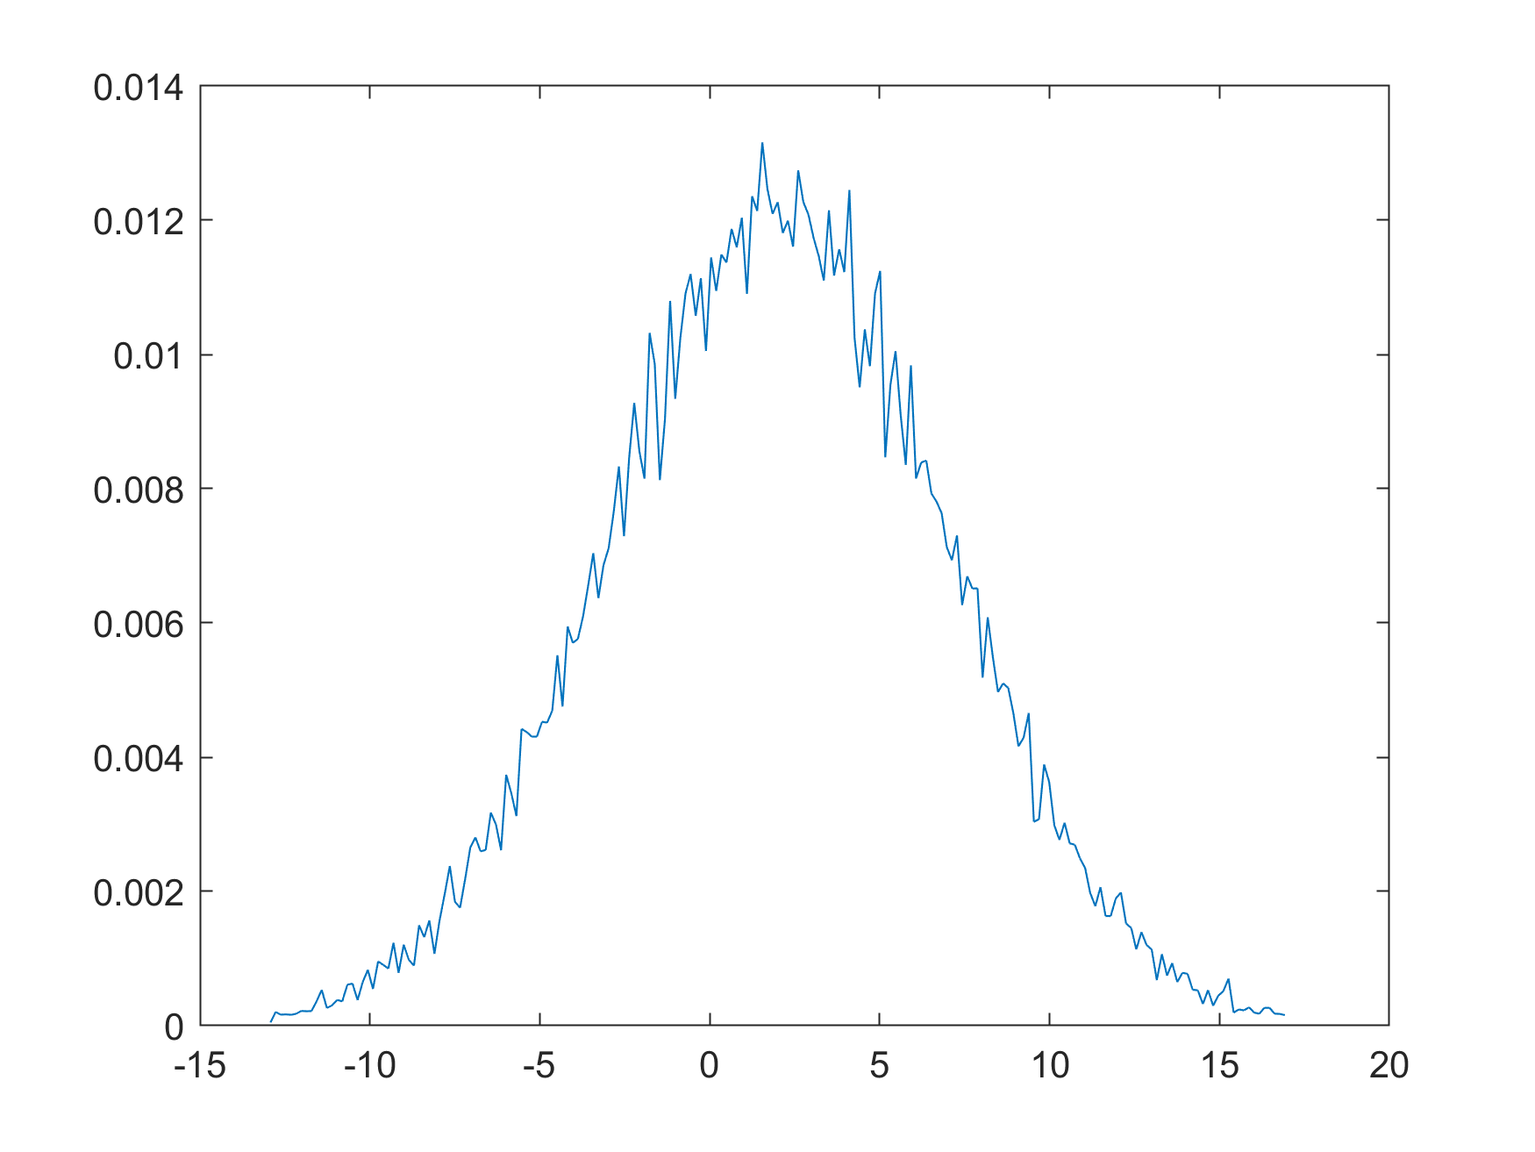
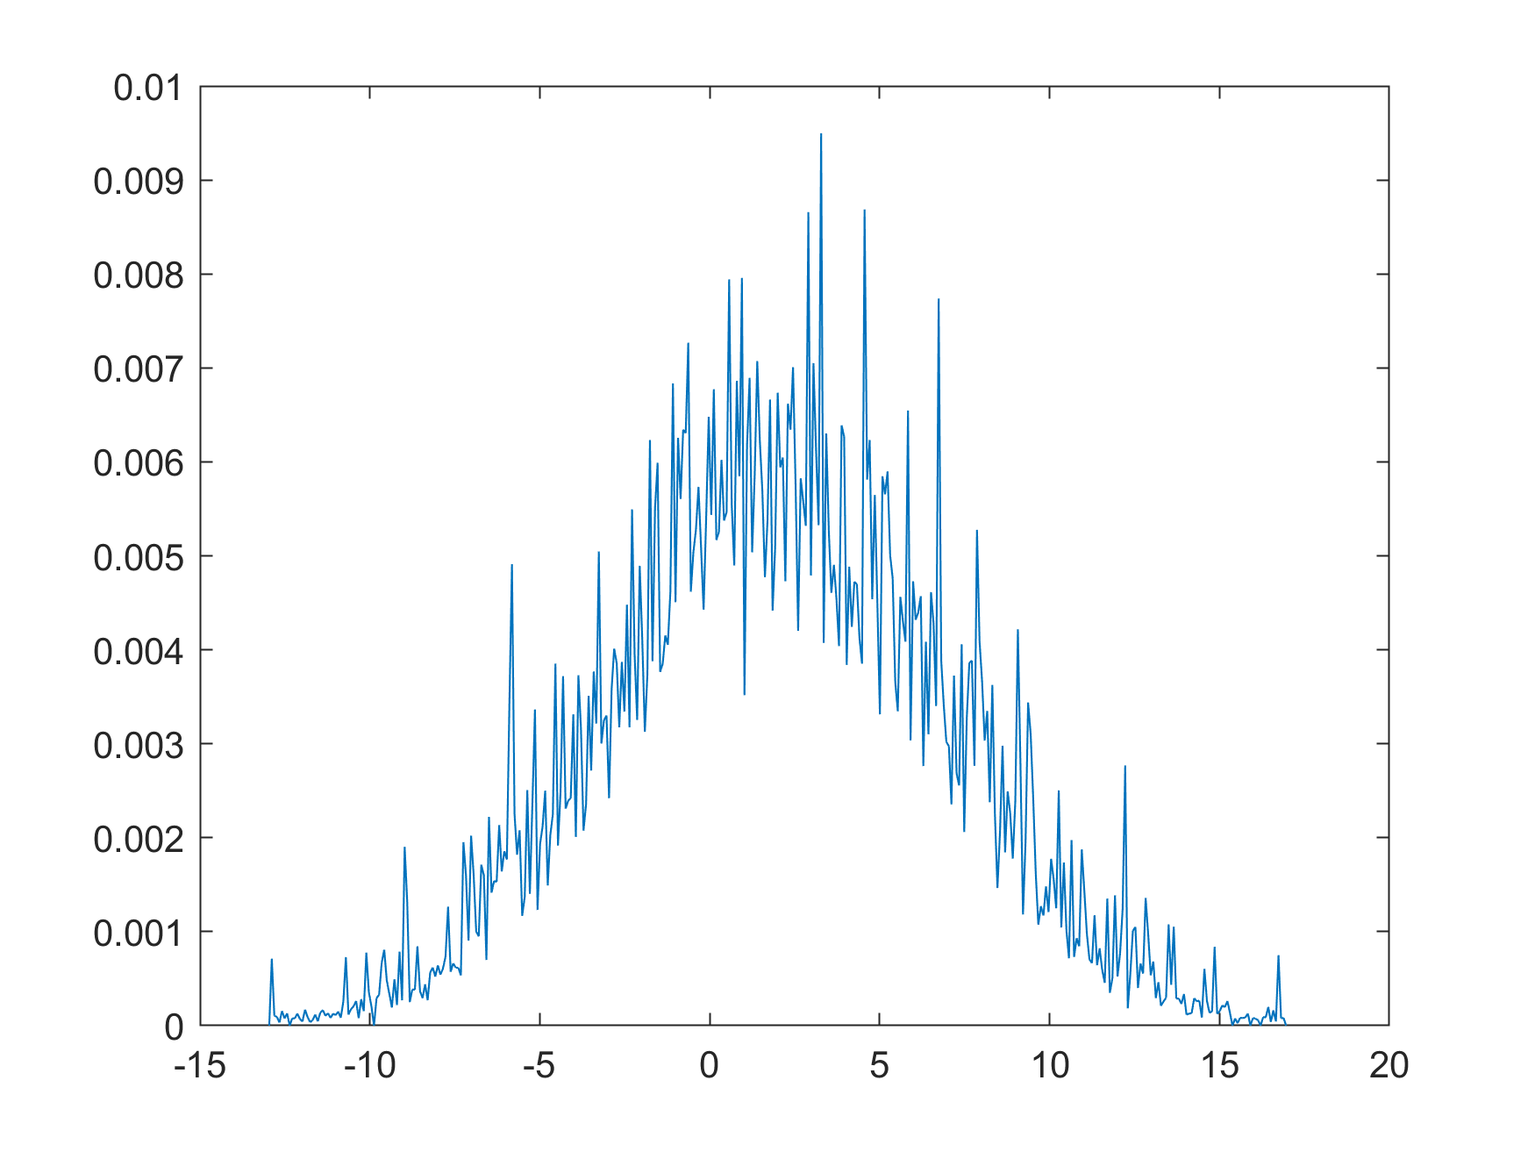
CONSEGNA

diff --git a/C/esercitazione9/pdfGauss.m b/C/esercitazione9/pdfGauss.m
@@ -1,7 +1,9 @@
 x = [-12.962406, -12.887218, -12.812030, -12.736842, -12.661654, -12.586466, -12.511278, -12.436090, -12.360902, -12.285714, -12.210526, -12.135338, -12.060150, -11.984962, -11.909774, -11.834586, -11.759398, -11.684211, -11.609023, -11.533835, -11.458647, -11.383459, -11.308271, -11.233083, -11.157895, -11.082707, -11.007519, -10.932331, -10.857143, -10.781955, -10.706767, -10.631579, -10.556391, -10.481203, -10.406015, -10.330827, -10.255639, -10.180451, -10.105263, -10.030075, -9.954887, -9.879699, -9.804511, -9.729323, -9.654135, -9.578947, -9.503759, -9.428571, -9.353383, -9.278195, -9.203008, -9.127820, -9.052632, -8.977444, -8.902256, -8.827068, -8.751880, -8.676692, -8.601504, -8.526316, -8.451128, -8.375940, -8.300752, -8.225564, -8.150376, -8.075188, -8.000000, -7.924812, -7.849624, -7.774436, -7.699248, -7.624060, -7.548872, -7.473684, -7.398496, -7.323308, -7.248120, -7.172932, -7.097744, -7.022556, -6.947368, -6.872180, -6.796992, -6.721805, -6.646617, -6.571429, -6.496241, -6.421053, -6.345865, -6.270677, -6.195489, -6.120301, -6.045113, -5.969925, -5.894737, -5.819549, -5.744361, -5.669173, -5.593985, -5.518797, -5.443609, -5.368421, -5.293233, -5.218045, -5.142857, -5.067669, -4.992481, -4.917293, -4.842105, -4.766917, -4.691729, -4.616541, -4.541353, -4.466165, -4.390977, -4.315789, -4.240602, -4.165414, -4.090226, -4.015038, -3.939850, -3.864662, -3.789474, -3.714286, -3.639098, -3.563910, -3.488722, -3.413534, -3.338346, -3.263158, -3.187970, -3.112782, -3.037594, -2.962406, -2.887218, -2.812030, -2.736842, -2.661654, -2.586466, -2.511278, -2.436090, -2.360902, -2.285714, -2.210526, -2.135338, -2.060150, -1.984962, -1.909774, -1.834586, -1.759398, -1.684211, -1.609023, -1.533835, -1.458647, -1.383459, -1.308271, -1.233083, -1.157895, -1.082707, -1.007519, -0.932331, -0.857143, -0.781955, -0.706767, -0.631579, -0.556391, -0.481203, -0.406015, -0.330827, -0.255639, -0.180451, -0.105263, -0.030075, 0.045113, 0.120301, 0.195489, 0.270677, 0.345865, 0.421053, 0.496241, 0.571429, 0.646617, 0.721805, 0.796992, 0.872180, 0.947368, 1.022556, 1.097744, 1.172932, 1.248120, 1.323308, 1.398496, 1.473684, 1.548872, 1.624060, 1.699248, 1.774436, 1.849624, 1.924812, 2.000000, 2.075188, 2.150376, 2.225564, 2.300752, 2.375940, 2.451128, 2.526316, 2.601504, 2.676692, 2.751880, 2.827068, 2.902256, 2.977444, 3.052632, 3.127820, 3.203008, 3.278195, 3.353383, 3.428571, 3.503759, 3.578947, 3.654135, 3.729323, 3.804511, 3.879699, 3.954887, 4.030075, 4.105263, 4.180451, 4.255639, 4.330827, 4.406015, 4.481203, 4.556391, 4.631579, 4.706767, 4.781955, 4.857143, 4.932331, 5.007519, 5.082707, 5.157895, 5.233083, 5.308271, 5.383459, 5.458647, 5.533835, 5.609023, 5.684211, 5.759398, 5.834586, 5.909774, 5.984962, 6.060150, 6.135338, 6.210526, 6.285714, 6.360902, 6.436090, 6.511278, 6.586466, 6.661654, 6.736842, 6.812030, 6.887218, 6.962406, 7.037594, 7.112782, 7.187970, 7.263158, 7.338346, 7.413534, 7.488722, 7.563910, 7.639098, 7.714286, 7.789474, 7.864662, 7.939850, 8.015038, 8.090226, 8.165414, 8.240602, 8.315789, 8.390977, 8.466165, 8.541353, 8.616541, 8.691729, 8.766917, 8.842105, 8.917293, 8.992481, 9.067669, 9.142857, 9.218045, 9.293233, 9.368421, 9.443609, 9.518797, 9.593985, 9.669173, 9.744361, 9.819549, 9.894737, 9.969925, 10.045113, 10.120301, 10.195489, 10.270677, 10.345865, 10.421053, 10.496241, 10.571429, 10.646617, 10.721805, 10.796992, 10.872180, 10.947368, 11.022556, 11.097744, 11.172932, 11.248120, 11.323308, 11.398496, 11.473684, 11.548872, 11.624060, 11.699248, 11.774436, 11.849624, 11.924812, 12.000000, 12.075188, 12.150376, 12.225564, 12.300752, 12.375940, 12.451128, 12.526316, 12.601504, 12.676692, 12.751880, 12.827068, 12.902256, 12.977444, 13.052632, 13.127820, 13.203008, 13.278195, 13.353383, 13.428571, 13.503759, 13.578947, 13.654135, 13.729323, 13.804511, 13.879699, 13.954887, 14.030075, 14.105263, 14.180451, 14.255639, 14.330827, 14.406015, 14.481203, 14.556391, 14.631579, 14.706767, 14.781955, 14.857143, 14.932331, 15.007519, 15.082707, 15.157895, 15.233083, 15.308271, 15.383459, 15.458647, 15.533835, 15.609023, 15.684211, 15.759398, 15.834586, 15.909774, 15.984962, 16.060150, 16.135338, 16.210526, 16.285714, 16.360902, 16.436090, 16.511278, 16.586466, 16.661654, 16.736842, 16.812030, 16.887218, 16.962406, ];
 
-f = [0.000138 0.000139 0.000140 0.000000 0.000134 0.000000 0.000000 0.000000 0.000000 0.000413 0.000139 0.000000 0.000120 0.000271 0.000138 0.000000 0.000133 0.000000 0.000063 0.000000 0.000000 0.000410 0.000119 0.000637 0.000395 0.000070 0.000273 0.000405 0.000126 0.000125 0.000270 0.000104 0.000358 0.000246 0.000000 0.000277 0.000138 0.000137 0.000491 0.000515 0.000721 0.000386 0.000383 0.000396 0.000135 0.000132 0.000390 0.000138 0.000545 0.000343 0.000485 0.000133 0.000677 0.000627 0.001045 0.000643 0.000460 0.000841 0.000899 0.000653 0.000400 0.000797 0.000470 0.000614 0.001012 0.000854 0.001006 0.000731 0.001275 0.001288 0.000854 0.000471 0.001127 0.000992 0.000873 0.001293 0.000971 0.000996 0.000661 0.001019 0.001011 0.001975 0.001074 0.000871 0.001213 0.001524 0.001280 0.002046 0.001233 0.001401 0.001502 0.001435 0.001669 0.001617 0.001473 0.002441 0.001731 0.001608 0.001630 0.001992 0.002002 0.002290 0.001956 0.002030 0.003270 0.001424 0.001974 0.001514 0.002453 0.002971 0.001741 0.002095 0.002864 0.001521 0.003188 0.003779 0.003526 0.001712 0.003248 0.003192 0.002482 0.004071 0.003173 0.003582 0.002880 0.002807 0.002544 0.003482 0.004079 0.003458 0.003886 0.003404 0.002974 0.003191 0.003961 0.004757 0.004030 0.003273 0.004038 0.003572 0.004598 0.003593 0.003850 0.005213 0.003878 0.004275 0.005101 0.005502 0.004290 0.003980 0.004072 0.003843 0.004755 0.005292 0.004860 0.005754 0.002914 0.005017 0.005400 0.005119 0.005583 0.005100 0.004719 0.006336 0.004221 0.003961 0.006583 0.004810 0.005128 0.004991 0.006933 0.004636 0.006262 0.007401 0.005487 0.005200 0.006399 0.006131 0.005397 0.007207 0.006204 0.005603 0.006140 0.005477 0.005758 0.005742 0.006283 0.004477 0.006247 0.005479 0.005853 0.005181 0.006180 0.006101 0.006183 0.006053 0.005324 0.005735 0.006207 0.005965 0.006869 0.006509 0.005964 0.006760 0.006728 0.005859 0.005197 0.007085 0.005867 0.006748 0.006461 0.006030 0.004352 0.006113 0.004434 0.006510 0.006744 0.004938 0.006699 0.005107 0.004858 0.005163 0.005619 0.006300 0.005276 0.004963 0.005334 0.005123 0.005716 0.005071 0.005957 0.006738 0.005094 0.006016 0.004333 0.005400 0.006615 0.003500 0.005332 0.004701 0.005392 0.005103 0.004191 0.004387 0.004431 0.004058 0.004287 0.004013 0.004922 0.004159 0.006683 0.003388 0.003456 0.004525 0.004337 0.005228 0.003741 0.005102 0.004581 0.002839 0.004750 0.003375 0.003813 0.004185 0.004200 0.004322 0.003744 0.003365 0.003190 0.003205 0.002685 0.002931 0.003367 0.003410 0.002918 0.002736 0.001425 0.004317 0.003057 0.002943 0.002705 0.002947 0.002497 0.003539 0.002712 0.002462 0.002954 0.002818 0.002391 0.002485 0.002519 0.001905 0.001967 0.002278 0.001840 0.001756 0.002007 0.002011 0.002439 0.002800 0.001587 0.001347 0.001695 0.001457 0.001765 0.001756 0.001646 0.001566 0.000945 0.001754 0.001459 0.001693 0.000750 0.001566 0.001036 0.001949 0.000666 0.002573 0.000833 0.001361 0.001219 0.001096 0.001216 0.000514 0.001283 0.001086 0.000886 0.001044 0.001422 0.000926 0.000578 0.000853 0.000775 0.000259 0.000523 0.001432 0.000373 0.000353 0.000481 0.000681 0.000393 0.000098 0.000242 0.000918 0.000703 0.000391 0.000633 0.000261 0.000333 0.000395 0.000761 0.000243 0.000977 0.000524 0.000529 0.000091 0.000000 0.000511 0.000670 0.000138 0.000392 0.000337 0.000253 0.000244 0.000634 0.000367 0.000131 0.000407 0.000275 0.000000 0.000269 0.000415 0.000260 0.000000 0.000117 0.000279 0.000268 0.000091 0.000275 0.000245 0.000000 0.000278 0.000104 0.000000 0.000096 0.000000 0.000121 0.000000 0.000000 0.000118 0.000137 0.000135 0.000000 0.000085 0.000000 0.000438 0.000000 0.000120 0.000248 ];
+f = [0.000000 0.000713 0.000105 0.000093 0.000033 0.000156 0.000077 0.000131 0.000000 0.000078 0.000077 0.000129 0.000071 0.000044 0.000170 0.000092 0.000037 0.000059 0.000118 0.000047 0.000138 0.000165 0.000104 0.000132 0.000083 0.000128 0.000112 0.000150 0.000084 0.000256 0.000729 0.000118 0.000174 0.000207 0.000262 0.000080 0.000282 0.000154 0.000777 0.000353 0.000206 0.000000 0.000293 0.000329 0.000665 0.000808 0.000481 0.000340 0.000193 0.000494 0.000219 0.000788 0.000270 0.001903 0.001321 0.000250 0.000385 0.000383 0.000845 0.000369 0.000293 0.000440 0.000270 0.000568 0.000618 0.000523 0.000642 0.000542 0.000608 0.000736 0.001266 0.000573 0.000663 0.000617 0.000616 0.000535 0.001953 0.001600 0.000905 0.002022 0.001609 0.001001 0.000950 0.001713 0.001600 0.000699 0.002222 0.001415 0.001540 0.001530 0.002135 0.001641 0.001856 0.001768 0.003432 0.004911 0.002253 0.001819 0.002080 0.001168 0.001371 0.002507 0.001403 0.002367 0.003365 0.001231 0.001932 0.002124 0.002501 0.001492 0.002025 0.002250 0.003853 0.001916 0.002482 0.003720 0.002310 0.002394 0.002420 0.003313 0.002009 0.003729 0.003166 0.002075 0.002357 0.003511 0.002715 0.003769 0.003215 0.005046 0.003002 0.003250 0.003300 0.002421 0.003582 0.004012 0.003857 0.003175 0.003871 0.003342 0.004479 0.003175 0.005495 0.003952 0.003253 0.004894 0.004105 0.003127 0.003736 0.006232 0.003878 0.005514 0.005990 0.003764 0.003851 0.004153 0.004052 0.004620 0.006835 0.004506 0.006256 0.005605 0.006343 0.006306 0.007268 0.004618 0.005036 0.005278 0.005734 0.005091 0.004427 0.005400 0.006480 0.005435 0.006773 0.005168 0.005253 0.006021 0.005375 0.005464 0.007942 0.005549 0.004897 0.006862 0.005847 0.007957 0.003517 0.006175 0.006894 0.005037 0.005865 0.007073 0.006228 0.005686 0.004773 0.005367 0.006663 0.004417 0.005085 0.006735 0.005941 0.006046 0.004729 0.006619 0.006342 0.007007 0.005758 0.004202 0.005825 0.005575 0.005319 0.008658 0.004791 0.007050 0.006134 0.005326 0.009497 0.004073 0.006302 0.005269 0.004606 0.004904 0.004542 0.004040 0.006389 0.006268 0.003839 0.004884 0.004244 0.004724 0.004697 0.004126 0.003852 0.008686 0.005811 0.006232 0.004538 0.005648 0.004501 0.003313 0.005847 0.005654 0.005898 0.005007 0.004760 0.003661 0.003345 0.004563 0.004305 0.004086 0.006546 0.003036 0.004729 0.004319 0.004396 0.004570 0.002763 0.004086 0.003101 0.004613 0.004276 0.003401 0.007738 0.003883 0.003409 0.003020 0.002974 0.002354 0.003725 0.002688 0.002556 0.004059 0.002061 0.003274 0.003862 0.003885 0.002765 0.005277 0.004091 0.003660 0.003034 0.003350 0.002377 0.003626 0.002260 0.001465 0.002056 0.002979 0.001844 0.002494 0.002261 0.001778 0.002392 0.004218 0.002794 0.001184 0.001952 0.003439 0.003107 0.002417 0.001618 0.001074 0.001271 0.001172 0.001482 0.001209 0.001776 0.001559 0.001249 0.002504 0.001045 0.001736 0.001014 0.000717 0.001975 0.000731 0.000931 0.000845 0.001876 0.001438 0.000980 0.000706 0.000665 0.001175 0.000643 0.000823 0.000590 0.000456 0.001353 0.000349 0.000506 0.001387 0.000523 0.000769 0.001240 0.002769 0.000184 0.000546 0.001009 0.001050 0.000401 0.000661 0.000555 0.001359 0.000972 0.000536 0.000683 0.000293 0.000463 0.000211 0.000258 0.000296 0.001078 0.000434 0.001053 0.000287 0.000289 0.000231 0.000337 0.000117 0.000129 0.000131 0.000292 0.000259 0.000267 0.000086 0.000604 0.000262 0.000137 0.000151 0.000839 0.000125 0.000154 0.000216 0.000196 0.000262 0.000137 0.000000 0.000076 0.000027 0.000084 0.000081 0.000087 0.000129 0.000000 0.000081 0.000075 0.000058 0.000000 0.000092 0.000087 0.000199 0.000040 0.000163 0.000044 0.000750 0.000078 0.000082 0.000000 ];
 
 figure;
 
-plot(x, f);print(gcf, 'gauss', '-dpng', '-r300');
+plot(x, f);
+
+print(gcf, 'gauss', '-dpng', '-r300');

diff --git a/C/esercitazione9/pdfExp.m b/C/esercitazione9/pdfExp.m
@@ -1,7 +1,9 @@
 x = [0.012531 0.037594 0.062657 0.087719 0.112782 0.137845 0.162907 0.187970 0.213033 0.238095 0.263158 0.288221 0.313283 0.338346 0.363409 0.388471 0.413534 0.438596 0.463659 0.488722 0.513784 0.538847 0.563910 0.588972 0.614035 0.639098 0.664160 0.689223 0.714286 0.739348 0.764411 0.789474 0.814536 0.839599 0.864662 0.889724 0.914787 0.939850 0.964912 0.989975 1.015038 1.040100 1.065163 1.090226 1.115288 1.140351 1.165414 1.190476 1.215539 1.240602 1.265664 1.290727 1.315789 1.340852 1.365915 1.390977 1.416040 1.441103 1.466165 1.491228 1.516291 1.541353 1.566416 1.591479 1.616541 1.641604 1.666667 1.691729 1.716792 1.741855 1.766917 1.791980 1.817043 1.842105 1.867168 1.892231 1.917293 1.942356 1.967419 1.992481 2.017544 2.042607 2.067669 2.092732 2.117794 2.142857 2.167920 2.192982 2.218045 2.243108 2.268170 2.293233 2.318296 2.343358 2.368421 2.393484 2.418546 2.443609 2.468672 2.493734 2.518797 2.543860 2.568922 2.593985 2.619048 2.644110 2.669173 2.694236 2.719298 2.744361 2.769424 2.794486 2.819549 2.844612 2.869674 2.894737 2.919799 2.944862 2.969925 2.994987 3.020050 3.045113 3.070175 3.095238 3.120301 3.145363 3.170426 3.195489 3.220551 3.245614 3.270677 3.295739 3.320802 3.345865 3.370927 3.395990 3.421053 3.446115 3.471178 3.496241 3.521303 3.546366 3.571429 3.596491 3.621554 3.646617 3.671679 3.696742 3.721805 3.746867 3.771930 3.796992 3.822055 3.847118 3.872180 3.897243 3.922306 3.947368 3.972431 3.997494 4.022556 4.047619 4.072682 4.097744 4.122807 4.147870 4.172932 4.197995 4.223058 4.248120 4.273183 4.298246 4.323308 4.348371 4.373434 4.398496 4.423559 4.448622 4.473684 4.498747 4.523810 4.548872 4.573935 4.598997 4.624060 4.649123 4.674185 4.699248 4.724311 4.749373 4.774436 4.799499 4.824561 4.849624 4.874687 4.899749 4.924812 4.949875 4.974937 5.000000 5.025063 5.050125 5.075188 5.100251 5.125313 5.150376 5.175439 5.200501 5.225564 5.250627 5.275689 5.300752 5.325815 5.350877 5.375940 5.401003 5.426065 5.451128 5.476190 5.501253 5.526316 5.551378 5.576441 5.601504 5.626566 5.651629 5.676692 5.701754 5.726817 5.751880 5.776942 5.802005 5.827068 5.852130 5.877193 5.902256 5.927318 5.952381 5.977444 6.002506 6.027569 6.052632 6.077694 6.102757 6.127820 6.152882 6.177945 6.203008 6.228070 6.253133 6.278195 6.303258 6.328321 6.353383 6.378446 6.403509 6.428571 6.453634 6.478697 6.503759 6.528822 6.553885 6.578947 6.604010 6.629073 6.654135 6.679198 6.704261 6.729323 6.754386 6.779449 6.804511 6.829574 6.854637 6.879699 6.904762 6.929825 6.954887 6.979950 7.005013 7.030075 7.055138 7.080201 7.105263 7.130326 7.155388 7.180451 7.205514 7.230576 7.255639 7.280702 7.305764 7.330827 7.355890 7.380952 7.406015 7.431078 7.456140 7.481203 7.506266 7.531328 7.556391 7.581454 7.606516 7.631579 7.656642 7.681704 7.706767 7.731830 7.756892 7.781955 7.807018 7.832080 7.857143 7.882206 7.907268 7.932331 7.957393 7.982456 8.007519 8.032581 8.057644 8.082707 8.107769 8.132832 8.157895 8.182957 8.208020 8.233083 8.258145 8.283208 8.308271 8.333333 8.358396 8.383459 8.408521 8.433584 8.458647 8.483709 8.508772 8.533835 8.558897 8.583960 8.609023 8.634085 8.659148 8.684211 8.709273 8.734336 8.759398 8.784461 8.809524 8.834586 8.859649 8.884712 8.909774 8.934837 8.959900 8.984962 9.010025 9.035088 9.060150 9.085213 9.110276 9.135338 9.160401 9.185464 9.210526 9.235589 9.260652 9.285714 9.310777 9.335840 9.360902 9.385965 9.411028 9.436090 9.461153 9.486216 9.511278 9.536341 9.561404 9.586466 9.611529 9.636591 9.661654 9.686717 9.711779 9.736842 9.761905 9.786967 9.812030 9.837093 9.862155 9.887218 9.912281 9.937343 9.962406 9.987469 ];
 
-f = [0.030000 0.029771 0.011159 0.000000 0.000000 0.000000 0.000000 0.000000 0.000000 0.000000 0.000000 0.000000 0.000000 0.000000 0.000000 0.000000 0.000000 0.000000 0.000000 0.000000 0.000000 0.000000 0.000000 0.000000 0.000000 0.000000 0.000000 0.000000 0.000000 0.000000 0.000000 0.000000 0.000000 0.000000 0.000000 0.000000 0.000000 0.000000 0.000000 0.000000 0.000000 0.000000 0.000000 0.000000 0.000000 0.000000 0.000000 0.000000 0.000000 0.000000 0.000000 0.000000 0.000000 0.000000 0.000000 0.000000 0.000000 0.000000 0.000000 0.000000 0.000000 0.000000 0.000000 0.000000 0.000000 0.000000 0.000000 0.000000 0.000000 0.000000 0.006112 0.013355 0.011695 0.006723 0.013270 0.012157 0.011245 0.010899 0.010820 0.008539 0.007903 0.011689 0.008108 0.010394 0.010221 0.009193 0.008470 0.006495 0.010884 0.009836 0.009591 0.009435 0.010447 0.009395 0.008933 0.008294 0.009324 0.006777 0.007921 0.006005 0.009031 0.009068 0.007925 0.006878 0.005342 0.007464 0.008516 0.007930 0.006576 0.006701 0.007444 0.007671 0.008414 0.007707 0.005990 0.008026 0.007751 0.006501 0.006019 0.007269 0.006213 0.006683 0.006082 0.006570 0.004931 0.006104 0.003114 0.006336 0.006931 0.005792 0.005912 0.006503 0.005680 0.006186 0.006387 0.006172 0.005656 0.004662 0.005865 0.003503 0.005782 0.005447 0.005533 0.004342 0.004777 0.004099 0.005301 0.003940 0.004614 0.004878 0.004908 0.004379 0.004736 0.003919 0.005023 0.004175 0.000003 0.002968 0.004198 0.003575 0.004151 0.003984 0.003329 0.003793 0.003268 0.003314 0.004257 0.004157 0.003975 0.003863 0.002559 0.003862 0.001933 0.003344 0.003641 0.003443 0.001778 0.003575 0.003436 0.003601 0.003741 0.003290 0.002799 0.003326 0.003015 0.003131 0.003332 0.002575 0.003232 0.003033 0.003266 0.002942 0.003010 0.003064 0.002677 0.002119 0.002591 0.002978 0.002652 0.001793 0.001332 0.002586 0.002460 0.000000 0.000000 0.001440 0.001953 0.002569 0.002343 0.002375 0.002177 0.001919 0.001404 0.002021 0.002066 0.001436 0.001539 0.002045 0.002020 0.002053 0.001914 0.001936 0.002168 0.001886 0.001887 0.001724 0.000584 0.001576 0.001823 0.001834 0.001810 0.000031 0.000919 0.001710 0.001652 0.001853 0.001657 0.001896 0.001569 0.001650 0.001686 0.001866 0.001683 0.001336 0.000678 0.001256 0.001345 0.001523 0.001148 0.001379 0.001175 0.001149 0.001176 0.000565 0.001362 0.001307 0.001304 0.001373 0.001334 0.001198 0.001313 0.001304 0.001298 0.001094 0.001240 0.001090 0.000969 0.000791 0.001246 0.001035 0.001058 0.001072 0.001035 0.001063 0.001047 0.001028 0.001113 0.001126 0.000839 0.000718 0.000794 0.000683 0.000996 0.000942 0.000651 0.001006 0.000675 0.000753 0.000031 0.000000 0.000000 0.000157 0.000708 0.000762 0.000846 0.000849 0.001082 0.000809 0.000509 0.000840 0.000839 0.000774 0.000829 0.000840 0.000446 0.000738 0.000786 0.000786 0.000545 0.000779 0.000542 0.000784 0.000714 0.000443 0.000781 0.000518 0.000552 0.000076 0.000083 0.000423 0.000763 0.000548 0.000515 0.000515 0.000432 0.000324 0.000500 0.000732 0.000482 0.000518 0.000502 0.000541 0.000185 0.000000 0.000014 0.000422 0.000506 0.000559 0.000562 0.000522 0.000216 0.000485 0.000487 0.000559 0.000225 0.000561 0.000535 0.000276 0.000527 0.000279 0.000518 0.000262 0.000457 0.000283 0.000529 0.000282 0.000549 0.000278 0.000561 0.000277 0.000239 0.000548 0.000271 0.000169 0.000000 0.000000 0.000128 0.000416 0.000235 0.000246 0.000210 0.000247 0.000532 0.000224 0.000245 0.000243 0.000241 0.000197 0.000177 0.000223 0.000453 0.000000 0.000419 0.000238 0.000000 0.000457 0.000211 0.000269 0.000000 0.000276 0.000203 0.000216 0.000281 0.000219 0.000121 0.000274 0.000235 0.000275 0.000281 ];
+f = [0.020113 0.022474 0.020192 0.012435 0.010179 0.009491 0.009630 0.010226 0.009679 0.010700 0.009244 0.010459 0.008698 0.007051 0.008670 0.008412 0.007441 0.008545 0.007661 0.008402 0.007718 0.006402 0.006809 0.007600 0.007503 0.008286 0.007519 0.008170 0.007120 0.007454 0.006048 0.007672 0.006508 0.005783 0.006199 0.005327 0.005722 0.005449 0.006380 0.006458 0.006699 0.006615 0.006135 0.006339 0.006084 0.005623 0.006133 0.006001 0.005969 0.005877 0.005942 0.005847 0.005656 0.005674 0.005565 0.005468 0.005352 0.005198 0.005405 0.005161 0.005142 0.004918 0.005015 0.005051 0.005021 0.004916 0.004929 0.004814 0.004576 0.003835 0.004136 0.004214 0.003715 0.003491 0.004064 0.004370 0.004264 0.003994 0.003814 0.003777 0.003786 0.003957 0.003753 0.003858 0.003834 0.003702 0.003729 0.003577 0.003099 0.003326 0.003459 0.003512 0.003383 0.003329 0.003287 0.002899 0.002667 0.002484 0.002707 0.002998 0.002953 0.002899 0.002765 0.002641 0.002779 0.002850 0.002878 0.002867 0.002772 0.002834 0.002836 0.002662 0.002588 0.002470 0.002572 0.002515 0.002526 0.002490 0.002508 0.002533 0.002470 0.002416 0.002271 0.002268 0.002181 0.002142 0.002168 0.002149 0.002184 0.002076 0.002165 0.002117 0.002100 0.001859 0.001636 0.001841 0.001888 0.002341 0.002947 0.003275 0.001797 0.002682 0.004443 0.003289 0.003124 0.003302 0.003349 0.004761 0.002996 0.003198 0.003141 0.003129 0.002970 0.003184 0.004381 0.002986 0.003021 0.002683 0.002769 0.002590 0.003002 0.002987 0.002937 0.002878 0.002882 0.002877 0.002927 0.002793 0.001171 0.002492 0.002432 0.002371 0.002517 0.002532 0.002428 0.002757 0.000954 0.002515 0.002575 0.002582 0.002560 0.001178 0.002687 0.002679 0.002754 0.001116 0.002672 0.002334 0.002628 0.001117 0.002608 0.002620 0.000971 0.002205 0.002430 0.000927 0.002394 0.002297 0.000936 0.002287 0.000843 0.002158 0.002248 0.000891 0.002017 0.000757 0.001959 0.000707 0.002089 0.002004 0.000883 0.001632 0.000777 0.002114 0.000721 0.001968 0.000604 0.001998 0.000664 0.001809 0.000674 0.002189 0.000603 0.001862 0.000617 0.000689 0.002150 0.000625 0.002139 0.000623 0.002250 0.000654 0.000425 0.001909 0.000642 0.001861 0.000632 0.000544 0.002015 0.000638 0.000600 0.002005 0.000522 0.002032 0.000537 0.000535 0.001649 0.000549 0.000550 0.001886 0.000499 0.000455 0.001854 0.000526 0.000433 0.001697 0.000441 0.000427 0.000409 0.001698 0.000344 0.000451 0.001782 0.000416 0.000363 0.000402 0.001530 0.000367 0.000446 0.000391 0.001668 0.000333 0.000433 0.000401 0.001574 0.000294 0.000318 0.000328 0.001321 0.000322 0.000310 0.000308 0.001458 0.000336 0.000279 0.000310 0.000266 0.001335 0.000280 0.000328 0.000236 0.000275 0.001363 0.000273 0.000335 0.000252 0.000272 0.001441 0.000282 0.000243 0.000191 0.000181 0.000169 0.001483 0.000226 0.000211 0.000115 0.000019 0.000000 0.000989 0.000000 0.000000 0.000000 0.000000 0.000000 0.000000 0.001396 0.000001 0.000000 0.000000 0.000000 0.000000 0.000074 0.000173 0.001587 0.000147 0.000121 0.000153 0.000156 0.000047 0.000118 0.001421 0.000151 0.000123 0.000000 0.000000 0.000000 0.000000 0.000000 0.000000 0.000048 0.000777 0.000121 0.000150 0.000085 0.000330 0.000366 0.000176 0.000364 0.000266 0.000210 0.000227 0.000254 0.000231 0.000255 0.000237 0.000244 0.000148 0.000316 0.000163 0.000236 0.000263 0.000156 0.000209 0.000248 0.000170 0.000245 0.000272 0.000186 0.000182 0.000260 0.000186 0.000245 0.000181 0.000174 0.000154 0.000194 0.001369 0.000092 0.000080 0.000091 0.000093 0.000083 0.000089 0.000082 0.000093 0.000090 0.000094 0.000084 0.000091 0.000094 0.000072 0.000109 0.001304 0.000088 0.000096 0.000082 0.000093 0.000081 ];
 
 figure;
 
-plot(x, f);print(gcf, 'exp', '-dpng', '-r300');
+plot(x, f);
+
+print(gcf, 'exp', '-dpng', '-r300');

diff --git a/C/esercitazione9/esercitazione9.c b/C/esercitazione9/esercitazione9.c
@@ -77,7 +77,8 @@ int main()
     	fprintf(f, "%f ", cont[i]);
     }
 
-    fprintf(f, "];\n\nfigure;\n\nplot(x, f);print(gcf, 'gauss', '-dpng', '-r300');");
+    //fprintf(f, "];\n\nfigure;\n\nplot(x, f);print(gcf, 'gauss', '-dpng', '-r300');");
+    fprintf(f, "];\n\nfigure;\n\nplot(x, f);");
     fclose(f);
 
 
@@ -99,7 +100,7 @@ int main()
 
     for(i=0; i<Nbin-1; i++){
 
-        .cont[i] /= sum;
+        cont[i] /= sum;
     	sum2 += cont[i];
     }
     printf("\n%f \n\n", sum2);
@@ -123,7 +124,8 @@ int main()
     	fprintf(g, "%f ", cont[i]);
     }
 
-    fprintf(g,"];\n\nfigure;\n\nplot(x, f);print(gcf, 'exp', '-dpng', '-r300');");
+    //fprintf(g,"];\n\nfigure;\n\nplot(x, f);print(gcf, 'exp', '-dpng', '-r300');");
+    fprintf(g,"];\n\nfigure;\n\nplot(x, f);");
 
     fclose(g);
 
